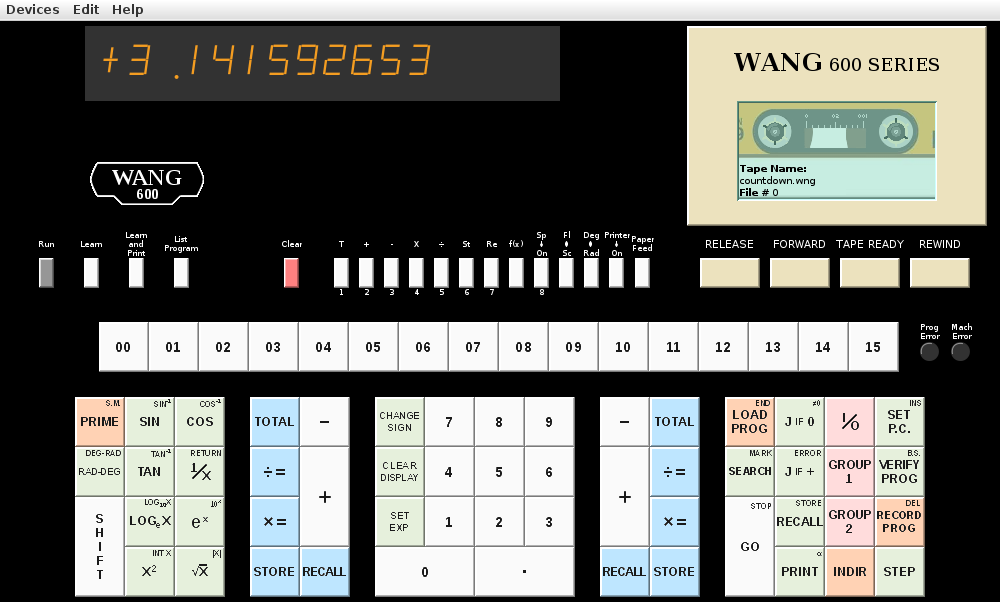
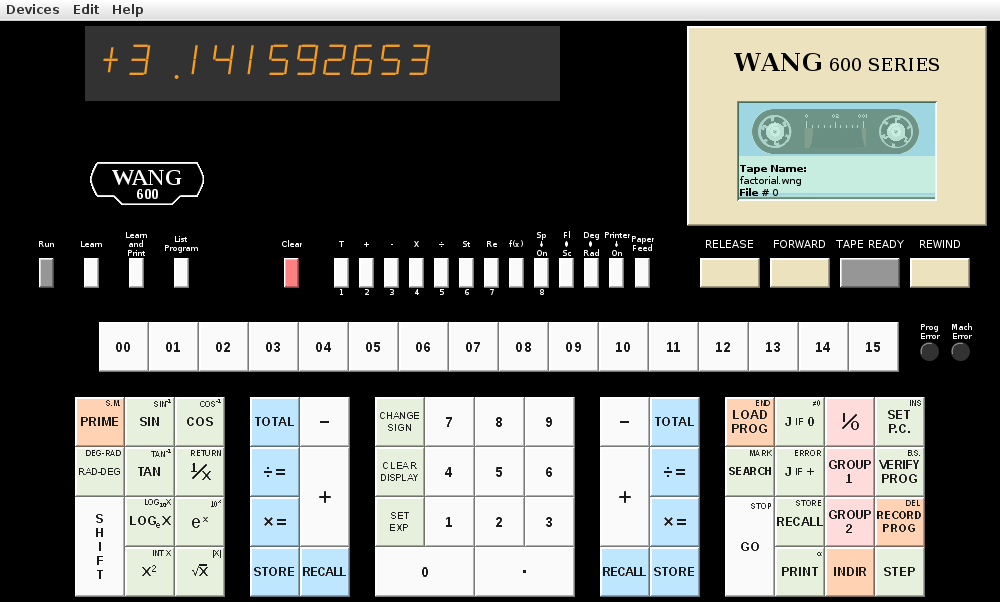
tweak cassette

Changed region(s): [[0.713, 0.1495, 0.961, 0.2691], [0.744, 0.299, 0.93, 0.3289], [0.837, 0.4186, 0.899, 0.4784]]

diff --git a/w600-sim/w600_fe.java b/w600-sim/w600_fe.java
@@ -1,5 +1,5 @@
 // Copyright (c) 2011,2012 Douglas Miller
-// $Id: w600_fe.java,v 1.135 2013/01/24 00:30:53 drmiller Exp $
+// $Id: w600_fe.java,v 1.136 2013/01/24 23:48:26 drmiller Exp $
 
 import java.awt.*;
 import java.awt.event.*;
@@ -24,7 +24,7 @@ import javax.swing.JRadioButton;
 import javax.swing.JCheckBox;
 
 class _Key {
-	final String ident = "$Id: w600_fe.java,v 1.135 2013/01/24 00:30:53 drmiller Exp $";
+	final String ident = "$Id: w600_fe.java,v 1.136 2013/01/24 23:48:26 drmiller Exp $";
 
 	static final Color orange1 = new Color(255, 210, 180, 255);
 	static final Color blue1 = new Color(190, 230, 255, 255);
@@ -155,7 +155,7 @@ class FEexit extends Thread {
 
 public class w600_fe
 {
-	final String ident = "$Id: w600_fe.java,v 1.135 2013/01/24 00:30:53 drmiller Exp $";
+	final String ident = "$Id: w600_fe.java,v 1.136 2013/01/24 23:48:26 drmiller Exp $";
 
 	public static ImageIcon _icon;
 	public static File _dir;
@@ -650,7 +650,7 @@ class Wang600_Properties extends Properties
 }
 
 class Wang600_ErrLight extends JPanel {
-	final String ident = "$Id: w600_fe.java,v 1.135 2013/01/24 00:30:53 drmiller Exp $";
+	final String ident = "$Id: w600_fe.java,v 1.136 2013/01/24 23:48:26 drmiller Exp $";
 	static final long serialVersionUID = 311457692038L;
 
 	GridBagLayout gridbag = new GridBagLayout();
@@ -774,7 +774,7 @@ class Wang600_SimError
 class Wang600_SimInput
 		implements Runnable, WindowListener, ActionListener
 {
-	final String ident = "$Id: w600_fe.java,v 1.135 2013/01/24 00:30:53 drmiller Exp $";
+	final String ident = "$Id: w600_fe.java,v 1.136 2013/01/24 23:48:26 drmiller Exp $";
 	Wang600_Display _dsp;
 	Wang600_Keyboard _kbd;
 	Wang600_Printer _prt;
@@ -939,7 +939,7 @@ if (n != 32) System.err.println("too little? "+n);
 class Wang600_Printer
 	implements ActionListener, ComponentListener
 {
-	final String ident = "$Id: w600_fe.java,v 1.135 2013/01/24 00:30:53 drmiller Exp $";
+	final String ident = "$Id: w600_fe.java,v 1.136 2013/01/24 23:48:26 drmiller Exp $";
 	final int PR_NUM_COL = 20;
 	final int PR_XCOL_WID = 3;
 	final int PR_XCOL_STRT = 15;
@@ -1257,7 +1257,7 @@ class Wang600_Printer
 
 class Wang600_Tape extends JComponent
 {
-	final String ident = "$Id: w600_fe.java,v 1.135 2013/01/24 00:30:53 drmiller Exp $";
+	final String ident = "$Id: w600_fe.java,v 1.136 2013/01/24 23:48:26 drmiller Exp $";
 	static final long serialVersionUID = 311457692039L;
 	java.io.RandomAccessFile _tf;
 	java.io.OutputStream _fout;
@@ -1272,6 +1272,7 @@ class Wang600_Tape extends JComponent
 	int _index;
 	JLabel _window;
 	JLabel _cassette;
+	int _curr_cass;
 	File _file;
 
 	public Wang600_Tape(OutputStream fout) {
@@ -1299,34 +1300,7 @@ class Wang600_Tape extends JComponent
 		ImageIcon ic;
 		JLabel cs;
 
-		url = w600_fe.class.getResource("icons/cassette_none.png");
-		ic = new ImageIcon(url);
-		cs = new JLabel(ic);
-		cs.setBounds(50, 75, 201, 100);
-		jp.add(cs, new Integer(3), 600);
-
-		url = w600_fe.class.getResource("icons/cassette_tape.png");
-		ic = new ImageIcon(url);
-		_cassette = new JLabel(ic);
-		_cassette.setBounds(50, 75, 201, 100);
-		_cassette.setVisible(false);
-		jp.add(_cassette, new Integer(4), 500);
-
-		_window = new JLabel("Tape Source/Dest");
-		lb = BorderFactory.createBevelBorder(BevelBorder.LOWERED);
-		_window.setBorder(lb);
-		_window.setVerticalAlignment(SwingConstants.BOTTOM);
-		_window.setHorizontalAlignment(SwingConstants.LEFT);
-		_window.setForeground(Color.black);
-		_window.setBackground(_Key.aqua);
-		_window.setOpaque(true);
-		font = null;
-		font = new Font("Sans-serif", Font.PLAIN, 10);
-		_window.setPreferredSize(new Dimension(200, 100));
-		_window.setBounds(50, 75, 200, 100);
-		_window.setFont(font);
-		update_tape();
-		jp.add(_window, new Integer(5), 500);
+		int layer = 1;
 
 		JLabel cass = new JLabel("<HTML><BR><FONT SIZE=+2><B>WANG</B></FONT>" +
 					" 600 SERIES</HTML>",
@@ -1343,7 +1317,40 @@ class Wang600_Tape extends JComponent
 		cass.setPreferredSize(new Dimension(300, 200));
 		cass.setBounds(0, 0, 300, 200);
 		cass.setFont(font);
-		jp.add(cass, new Integer(2), 400);
+		jp.add(cass, new Integer(layer), layer);
+		++layer;
+
+		url = w600_fe.class.getResource("icons/cassette_none_gry.png");
+		ic = new ImageIcon(url);
+		cs = new JLabel(ic);
+		cs.setBounds(50, 75, 201, 100);
+		jp.add(cs, new Integer(layer), layer);
+		++layer;
+
+		url = w600_fe.class.getResource("icons/cassette_tape_data.png");
+		ic = new ImageIcon(url);
+		_cassette = new JLabel(ic);
+		_cassette.setBounds(50, 75, 201, 100);
+		_cassette.setVisible(false);
+		jp.add(_cassette, new Integer(layer), layer);
+		++layer;
+
+		_window = new JLabel("Tape Source/Dest");
+		lb = BorderFactory.createBevelBorder(BevelBorder.LOWERED);
+		_window.setBorder(lb);
+		_window.setVerticalAlignment(SwingConstants.BOTTOM);
+		_window.setHorizontalAlignment(SwingConstants.LEFT);
+		_window.setForeground(Color.black);
+		_window.setBackground(_Key.aqua);
+		_window.setOpaque(true);
+		font = null;
+		font = new Font("Sans-serif", Font.PLAIN, 10);
+		_window.setPreferredSize(new Dimension(200, 100));
+		_window.setBounds(50, 75, 200, 100);
+		_window.setFont(font);
+		update_tape();
+		jp.add(_window, new Integer(layer), layer);
+		++layer;
 
 		add(jp);
 	}
@@ -1352,8 +1359,8 @@ class Wang600_Tape extends JComponent
 		String txt;
 		if (_file == null) {
 			txt = new String("<HTML><FONT SIZE=+2>(no tape)</FONT></HTML>");
-			_cassette.setVisible(false);
 		} else {
+			_cassette.setVisible(true);
 			String eot;
 			String prot;
 			if (_eot) {
@@ -1370,7 +1377,6 @@ class Wang600_Tape extends JComponent
 				_file.getName() + "<BR>" +
 				"<B>File #</B> " + _index + eot +
 				"</HTML>");
-			_cassette.setVisible(true);
 		}
 		_window.setText(txt);
 		repaint();
@@ -1487,6 +1493,7 @@ class Wang600_Tape extends JComponent
 		} else if (btn.code == _Key.TAPE_FF) {
 			tape_position(_index + 1);
 		} else if (btn.code == _Key.TAPE_EJECT) {
+			_cassette.setVisible(false);
 			pick_file();
 		}
 		update_tape();
@@ -1913,7 +1920,7 @@ class SuffFileChooser extends JFileChooser {
 class Wang600_Model611
 	implements ActionListener, ComponentListener
 {
-	final String ident = "$Id: w600_fe.java,v 1.135 2013/01/24 00:30:53 drmiller Exp $";
+	final String ident = "$Id: w600_fe.java,v 1.136 2013/01/24 23:48:26 drmiller Exp $";
 	private byte[] cn24_xlate;
 	private String[] cn24_spcl;
 
@@ -2500,7 +2507,7 @@ class Wang600_Model611
 class Wang600_Display extends JComponent
 		implements ActionListener
 {
-	final String ident = "$Id: w600_fe.java,v 1.135 2013/01/24 00:30:53 drmiller Exp $";
+	final String ident = "$Id: w600_fe.java,v 1.136 2013/01/24 23:48:26 drmiller Exp $";
 	static final long serialVersionUID = 311457692037L;
 	final byte[] sign_chr = new byte[]{'+','-','+','-','+','-','+','-','+','-','+','-','+','-','+',' '};
 	final byte[] disp_chr = new byte[]{'0','1','2','3','4','5','6','7','8','9','.','B','C','D','E',' '};
@@ -2702,7 +2709,7 @@ class Wang600_Display extends JComponent
 class Wang600_Keyboard extends JComponent
 	implements ActionListener, KeyListener, WindowListener, ComponentListener
 {
-	final String ident = "$Id: w600_fe.java,v 1.135 2013/01/24 00:30:53 drmiller Exp $";
+	final String ident = "$Id: w600_fe.java,v 1.136 2013/01/24 23:48:26 drmiller Exp $";
 	static final long serialVersionUID = 31145769203L;
 	static final int num_kbds = 3;
 
@@ -3154,7 +3161,7 @@ System.err.println("action");
 
 class Wang600_Keyboards extends JComponent
 {
-	final String ident = "$Id: w600_fe.java,v 1.135 2013/01/24 00:30:53 drmiller Exp $";
+	final String ident = "$Id: w600_fe.java,v 1.136 2013/01/24 23:48:26 drmiller Exp $";
 	static final long serialVersionUID = 311457692034L;
 	public Wang600_Keyboards() { }
 
@@ -3421,7 +3428,7 @@ class Wang600_Help extends JComponent
 		JLabel lab = new JLabel("<HTML><CENTER>"+
 			"Wang 600 Advanced Programmable Calculator<BR>"+
 			"Simulator<BR>"+
-			"$Revision: 1.135 $ $Date: 2013/01/24 00:30:53 $<BR>"+
+			"$Revision: 1.136 $ $Date: 2013/01/24 23:48:26 $<BR>"+
 			"<BR>"+
 			"<IMG SRC=\""+url.toString()+"\">"+
 			"<BR>"+
@@ -3555,7 +3562,7 @@ class Wang600_Help extends JComponent
 
 class Wang600_Keyboard_main extends Wang600_Keyboards
 {
-	final String ident = "$Id: w600_fe.java,v 1.135 2013/01/24 00:30:53 drmiller Exp $";
+	final String ident = "$Id: w600_fe.java,v 1.136 2013/01/24 23:48:26 drmiller Exp $";
 	static final long serialVersionUID = 311457692031L;
 	static final int num_keys = 54;
 
@@ -3773,7 +3780,7 @@ class Wang600_Keyboard_main extends Wang600_Keyboards
 
 class Wang600_Keyboard_meta extends Wang600_Keyboards
 {
-	final String ident = "$Id: w600_fe.java,v 1.135 2013/01/24 00:30:53 drmiller Exp $";
+	final String ident = "$Id: w600_fe.java,v 1.136 2013/01/24 23:48:26 drmiller Exp $";
 	static final long serialVersionUID = 311457692032L;
 	static final int num_keys = 16;
 
@@ -3866,7 +3873,7 @@ class Wang600_Keyboard_meta extends Wang600_Keyboards
 
 class Wang600_Keyboard_stick extends Wang600_Keyboards
 {
-	final String ident = "$Id: w600_fe.java,v 1.135 2013/01/24 00:30:53 drmiller Exp $";
+	final String ident = "$Id: w600_fe.java,v 1.136 2013/01/24 23:48:26 drmiller Exp $";
 	static final long serialVersionUID = 311457692033L;
 	static final int num_keys = 22;
 
